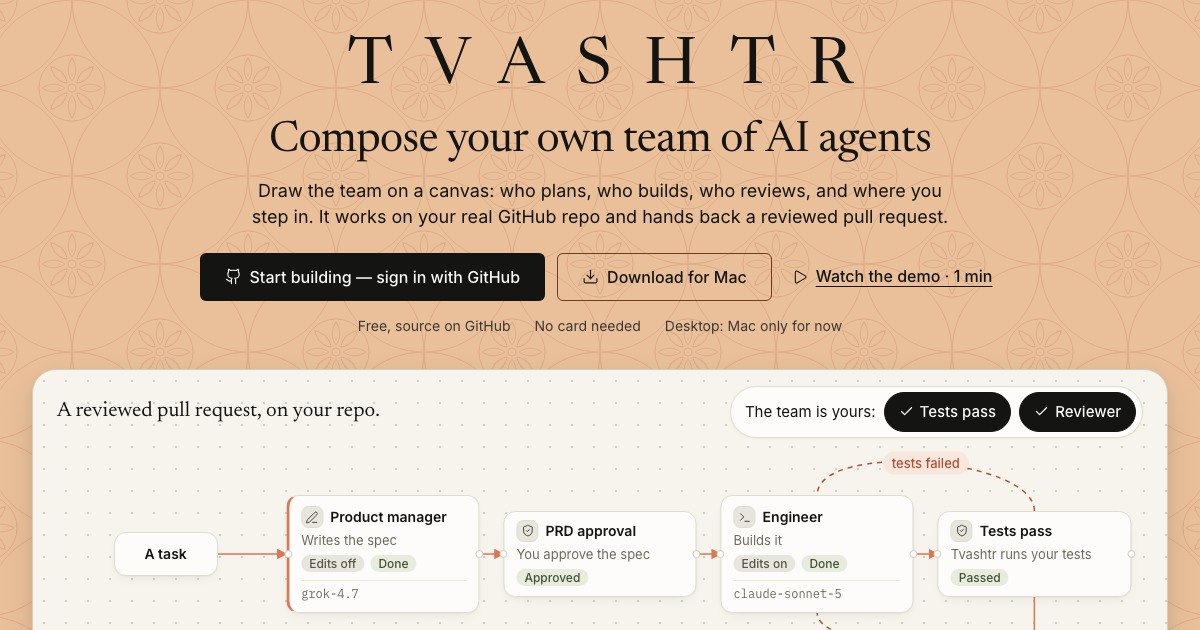
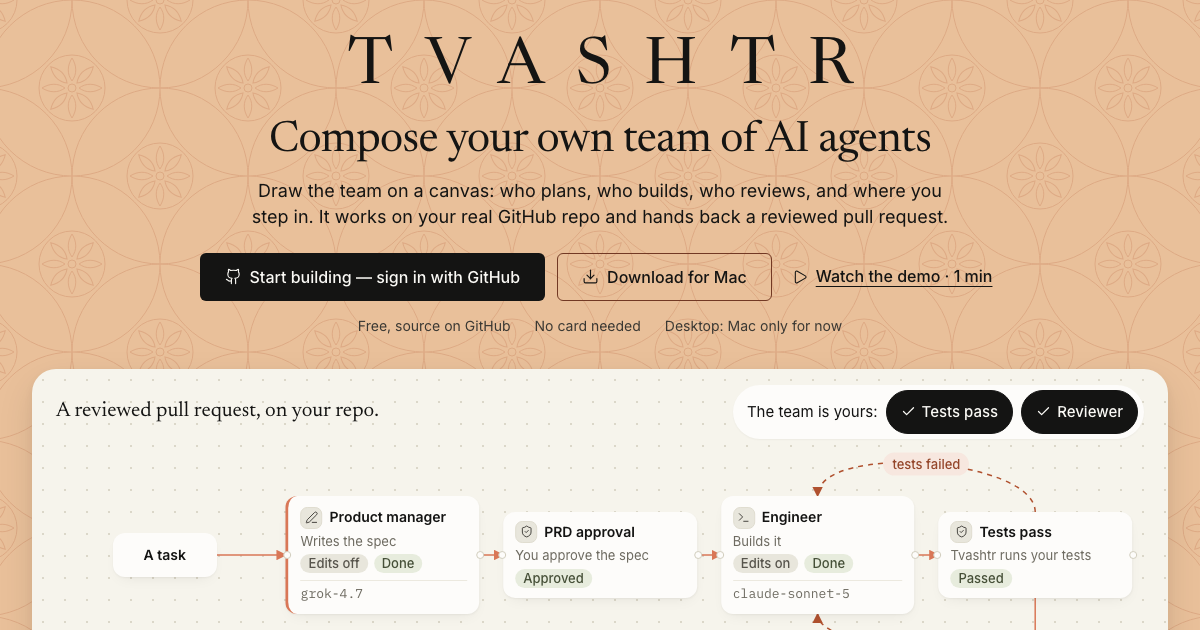
feat(landing): finish review fixes, one container, arrowheads, landing e2e

diff --git a/frontend/src/pages/website/website.css b/frontend/src/pages/website/website.css
@@ -3,10 +3,11 @@
 /* Hallmark · dismissed 3 · the start bar is the real canvas node's mark, as AgentNodeCard draws it */
 /* Hallmark · answered F15 · the ledgers and rows take 64px, small grids of cards keep tighter gaps */
 /* Hallmark · answered F3 · every display head here carries text-wrap: balance */
-/* Hallmark · waive 39b · FAQ rows are full-width rows, their height is the question's padding · they are not buttons in a bar */
-/* Hallmark · waive 44c · the team card runs past the fold on purpose, its first row in view · the operator's own layout */
-/* Hallmark · waive 59 · the gaps vary from 104px up, the small one is where the paper changes tone · tone carries that break */
+/* Hallmark · waive 39b · FAQ rows are full-width rows, not buttons in a bar · the questions read as rows, so the height comes from each question and its padding */
+/* Hallmark · waive 44c · the card crosses the fold with its first row in view · the team picture runs past the fold on purpose, as the operator drew it */
+/* Hallmark · waive 59 · gaps vary from 104px up, and tone changes at the small one · the demo video meets a band of paper there, and the tone carries the break */
 /* Hallmark · dismissed F25 · the phone keeps its shorter copy and four questions, website.md WEB-20..25 */
+/* Hallmark · waive 69 · the row is wiring, OQ-13 · the source on GitHub row carries the live stars count, so it stays */
 /* Hallmark · dismissed F20 · on a phone the switches' label takes its own row above them, on purpose */
 /* The public website (website.md; design Web-*, WbF-*). Exact px from the design's HTML. The
    design has no Tailwind preflight: where it relies on content-box sizing or inline svgs, that is
@@ -896,12 +897,23 @@
   gap: 8px;
 }
 .web-page:has(.web-lead) .web-head {
+  padding-inline: max(32px, calc((100% - 1200px) / 2));
   border-bottom: 0;
   background: var(--surface-page);
   backdrop-filter: none;
 }
-.web-page:has(.web-lead) .web-head .ds-logo__word {
-  display: none;
+@supports (animation-timeline: scroll()) {
+  .web-page:has(.web-lead) .web-head .ds-logo__word,
+  .web-m:has(.web-lead) .web-m__head .ds-logo__word {
+    animation: web-name linear both;
+    animation-timeline: scroll(root);
+    animation-range: 120px 200px;
+  }
+}
+@keyframes web-name {
+  from {
+    opacity: 0;
+  }
 }
 .web-page:has(.web-lead) .web-head__nav {
   margin-left: auto;
@@ -1063,6 +1075,9 @@
 }
 .tp__tip {
   fill: var(--accent);
+}
+.tp__tip--back {
+  fill: var(--accent-active);
 }
 .tp__loop {
   fill: none;
@@ -1322,9 +1337,11 @@
 }
 .web-video {
   position: relative;
+  overflow: hidden;
   width: 100%;
-  max-width: 1120px;
+  max-width: 1200px;
   aspect-ratio: 16 / 9;
+  border-radius: var(--radius-2xl);
   background: var(--panel-300);
 }
 .web-video__el {
@@ -1385,6 +1402,7 @@
 
 /* ---- Landing 1: the rest of the page ---- */
 .web-sec {
+  box-sizing: content-box;
   max-width: 1200px;
   margin: 0 auto;
   padding: 120px 32px 0;
@@ -1430,6 +1448,7 @@
   display: grid;
   grid-template-columns: repeat(4, minmax(0, 1fr));
   gap: 24px;
+  box-sizing: content-box;
   max-width: 1200px;
   margin: 0 auto 112px;
   padding: 0 32px;
@@ -1565,17 +1584,22 @@
 
 /* A team, drawn with the real canvas's card and its lines behind the grid of cards. */
 .web-crew {
+  --g: 44px;
+  --foot: 56px;
+  --c1: calc((100% - var(--g)) / 4);
   position: relative;
   display: grid;
   grid-template-columns: repeat(2, minmax(0, 1fr));
-  gap: 32px 28px;
-  padding-bottom: 48px;
+  grid-auto-rows: 1fr;
+  gap: var(--g);
+  padding-bottom: var(--foot);
 }
 .web-crew__lines {
   position: absolute;
-  inset: 0;
-  width: 100%;
-  height: 100%;
+  top: 0;
+  left: var(--c1);
+  width: calc(100% - 2 * var(--c1));
+  height: calc(100% - var(--foot));
   overflow: visible;
 }
 .web-crew__lines path {
@@ -1584,9 +1608,51 @@
   stroke-width: 1.5;
   vector-effect: non-scaling-stroke;
 }
-.web-crew__lines .web-crew__back {
-  stroke: var(--accent-active);
-  stroke-dasharray: 5 5;
+.web-crew__n:nth-child(even)::after {
+  content: "";
+  position: absolute;
+  top: 50%;
+  left: 100%;
+  width: var(--g);
+  height: 1.5px;
+  background: var(--accent);
+}
+.web-crew__n:nth-child(even)::before {
+  content: "";
+  position: absolute;
+  z-index: 1;
+  top: calc(50% - 4px);
+  left: calc(100% + var(--g) - 9px);
+  width: 9px;
+  height: 9px;
+  background: var(--accent);
+  clip-path: polygon(0 0, 100% 50%, 0 100%);
+}
+.web-crew__back {
+  position: absolute;
+  right: var(--c1);
+  bottom: 12px;
+  left: var(--c1);
+  height: calc(var(--foot) - 12px);
+  border: 1.5px dashed var(--accent-active);
+  border-top: 0;
+  border-radius: 0 0 var(--radius-lg) var(--radius-lg);
+}
+.web-crew__tip {
+  position: absolute;
+  left: calc(var(--c1) - 4px);
+  width: 9px;
+  height: 9px;
+}
+.web-crew__tip--down {
+  top: calc((100% - var(--foot) + var(--g)) / 2 - 9px);
+  background: var(--accent);
+  clip-path: polygon(0 0, 100% 0, 50% 100%);
+}
+.web-crew__tip--up {
+  bottom: calc(var(--foot) - 9px);
+  background: var(--accent-active);
+  clip-path: polygon(50% 0, 100% 100%, 0 100%);
 }
 .web-crew__n {
   position: relative;
@@ -1614,7 +1680,7 @@
   bottom: 0;
   left: 50%;
   transform: translateX(-50%);
-  padding: 1px 9px;
+  padding: 2px 9px;
   border-radius: var(--radius-pill);
   background: var(--accent-tint);
   color: var(--web-hot);
@@ -1899,9 +1965,6 @@
 .web-m .web-lead__lede {
   font-size: 17px;
 }
-.web-m:has(.web-lead) .web-m__head .ds-logo__word {
-  display: none;
-}
 .web-m .web-lead__actions {
   display: flex;
   flex-direction: column;
@@ -1970,7 +2033,7 @@
   padding: 16px;
 }
 .web-m .web-crew {
-  gap: 28px 16px;
+  --g: 28px;
 }
 .web-m .web-crew__n {
   padding: 8px;
@@ -2000,6 +2063,12 @@
   font-size: 16px;
   line-height: 1.5;
 }
+.web-m__way b {
+  display: block;
+  font-family: var(--font-display);
+  font-size: 26px;
+  font-weight: 400;
+}
 .web-m .web-two-ways .web-sec__head + .web-m__way {
   margin-top: 28px;
 }
@@ -2008,5 +2077,9 @@
   .tp__toggle,
   .web-video__disc {
     transition: none;
+  }
+  .web-page:has(.web-lead) .web-head .ds-logo__word,
+  .web-m:has(.web-lead) .web-m__head .ds-logo__word {
+    animation: none;
   }
 }

diff --git a/frontend/src/pages/website/TeamPicture.tsx b/frontend/src/pages/website/TeamPicture.tsx
@@ -184,9 +184,9 @@ function layout(width: number): Layout {
   for (const stop of STOPS) {
     const [w, h] = size(stop.kind);
     at[stop.id] = { x, y: y + h / 2, w, h };
-    y += h + 22;
+    y += h + 30;
   }
-  return { wide, width, height: y - 22, at };
+  return { wide, width, height: y - 30, at };
 }
 
 /** The line from one stop to the next one on the path. */
@@ -439,6 +439,17 @@ export function TeamPicture({ id }: { id?: string }) {
             >
               <path className="tp__tip" d="M0 0L8 4L0 8z" />
             </marker>
+            <marker
+              id="tp-back"
+              viewBox="0 0 8 8"
+              refX="7"
+              refY="4"
+              markerWidth="7"
+              markerHeight="7"
+              orient="auto-start-reverse"
+            >
+              <path className="tp__tip tp__tip--back" d="M0 0L8 4L0 8z" />
+            </marker>
           </defs>
           {stops.slice(1).map((stop, i) => (
             <path
@@ -449,8 +460,10 @@ export function TeamPicture({ id }: { id?: string }) {
               d={edgePath(place.at[order[i]], place.at[stop.id], place.wide)}
             />
           ))}
-          {tests && <path data-loop="tests" className="tp__loop" d={tests.d} />}
-          {rev && <path data-loop="rev" className="tp__loop" d={rev.d} />}
+          {tests && (
+            <path data-loop="tests" className="tp__loop" markerEnd="url(#tp-back)" d={tests.d} />
+          )}
+          {rev && <path data-loop="rev" className="tp__loop" markerEnd="url(#tp-back)" d={rev.d} />}
         </svg>
         {stops.map((stop) => {
           const box = place.at[stop.id];

diff --git a/frontend/e2e/website.spec.ts b/frontend/e2e/website.spec.ts
@@ -53,6 +53,29 @@ test.describe("the public website", () => {
     await expect(page.getByRole("heading", { name: "Sign in to Tvashtr" })).toBeVisible();
   });
 
+  test("the landing loads no video until a press, and the team picture answers its switches", async ({
+    page,
+  }) => {
+    const videos: string[] = [];
+    page.on("request", (r) => {
+      if (r.url().includes(".mp4")) videos.push(r.url());
+    });
+    await page.goto("/#/welcome");
+    await expect(page.getByRole("heading", { level: 1 })).toBeVisible({ timeout: 30_000 });
+    for (const id of ["product", "how", "domains", "two-ways", "faq"]) {
+      await expect(page.locator(`#${id}`)).toHaveCount(1);
+    }
+    const reviewer = page.getByRole("button", { name: "Reviewer" });
+    await reviewer.click();
+    await expect(reviewer).toHaveAttribute("aria-pressed", "false");
+    await expect(page.locator('[data-stop="rev"]')).toHaveCount(0);
+    await page.locator("#faq").scrollIntoViewIfNeeded();
+    await noSidewaysScroll(page);
+    expect(videos).toEqual([]);
+    await page.getByRole("button", { name: "Play the 1-minute demo, with sound" }).click();
+    await expect.poll(() => videos.length).toBeGreaterThan(0);
+  });
+
   test.describe("on a Mac with Apple silicon", () => {
     test.use({ userAgent: MAC_UA });
 

diff --git a/frontend/src/pages/website/mocks.tsx b/frontend/src/pages/website/mocks.tsx
@@ -174,13 +174,12 @@ const CREW: { title: string; does: string; model: string; Icon: LucideIcon; star
 ];
 
 /** Why Tvashtr, "Your team is yours": a team you drew, with the Reviewer's way back. It flows with
- * its column, so its lines are percentages of the grid the cards sit in. */
+ * its column, so its lines hang off the grid the cards sit in (website.css, `.web-crew`). */
 export function TeamFragment() {
   return (
     <div className="web-crew" data-ui aria-hidden="true">
       <svg className="web-crew__lines" viewBox="0 0 100 100" preserveAspectRatio="none">
-        <path d="M25 22H75C75 50 25 50 25 66H75" />
-        <path className="web-crew__back" d="M75 66C75 104 25 104 25 66" />
+        <path d="M100 25V50H0V75" />
       </svg>
       {CREW.map(({ title, does, model, Icon, start }) => (
         <div key={title} className={`web-crew__n${start ? " web-crew__n--start" : ""}`}>
@@ -194,6 +193,9 @@ export function TeamFragment() {
           <span className="tp__m">{model}</span>
         </div>
       ))}
+      <span className="web-crew__back" />
+      <span className="web-crew__tip web-crew__tip--down" />
+      <span className="web-crew__tip web-crew__tip--up" />
       <span className="web-crew__label">changes requested</span>
     </div>
   );

diff --git a/frontend/src/pages/website/Faq.tsx b/frontend/src/pages/website/Faq.tsx
@@ -2,7 +2,7 @@
  * The website's questions (website.md WEB-17, OQ-11, OQ-28): a single-open accordion. The 1440
  * landing opens the first answer on load; opening another closes it.
  */
-import { ArrowUp, ChevronDown } from "lucide-react";
+import { ChevronUp, ChevronDown } from "lucide-react";
 import { useId, useState } from "react";
 
 import type { Config } from "../../lib/api";
@@ -62,7 +62,7 @@ export function Faq({
     <div className={phone ? "web-faq web-faq--phone" : "web-faq"}>
       {items.map((item, i) => {
         const expanded = open === i;
-        const Icon = expanded ? ArrowUp : ChevronDown;
+        const Icon = expanded ? ChevronUp : ChevronDown;
         return (
           <div key={item.q} className="web-faq__item">
             <button

diff --git a/frontend/src/pages/website/LandingMobile.tsx b/frontend/src/pages/website/LandingMobile.tsx
@@ -113,10 +113,10 @@ export function LandingMobile({
         <section id="two-ways" className="web-sec web-two-ways">
           <Head title="Website or Mac app" />
           <div className="web-m__way">
-            <b>Website</b> · runs on Tvashtr’s servers with your API keys.
+            <b>Website</b> Runs on Tvashtr’s servers with your API keys.
           </div>
           <div className="web-m__way">
-            <b>Desktop app</b> · runs your Claude or Grok plan’s steps on your Mac.
+            <b>Desktop app</b> Runs your Claude or Grok plan’s steps on your Mac.
           </div>
         </section>
 
